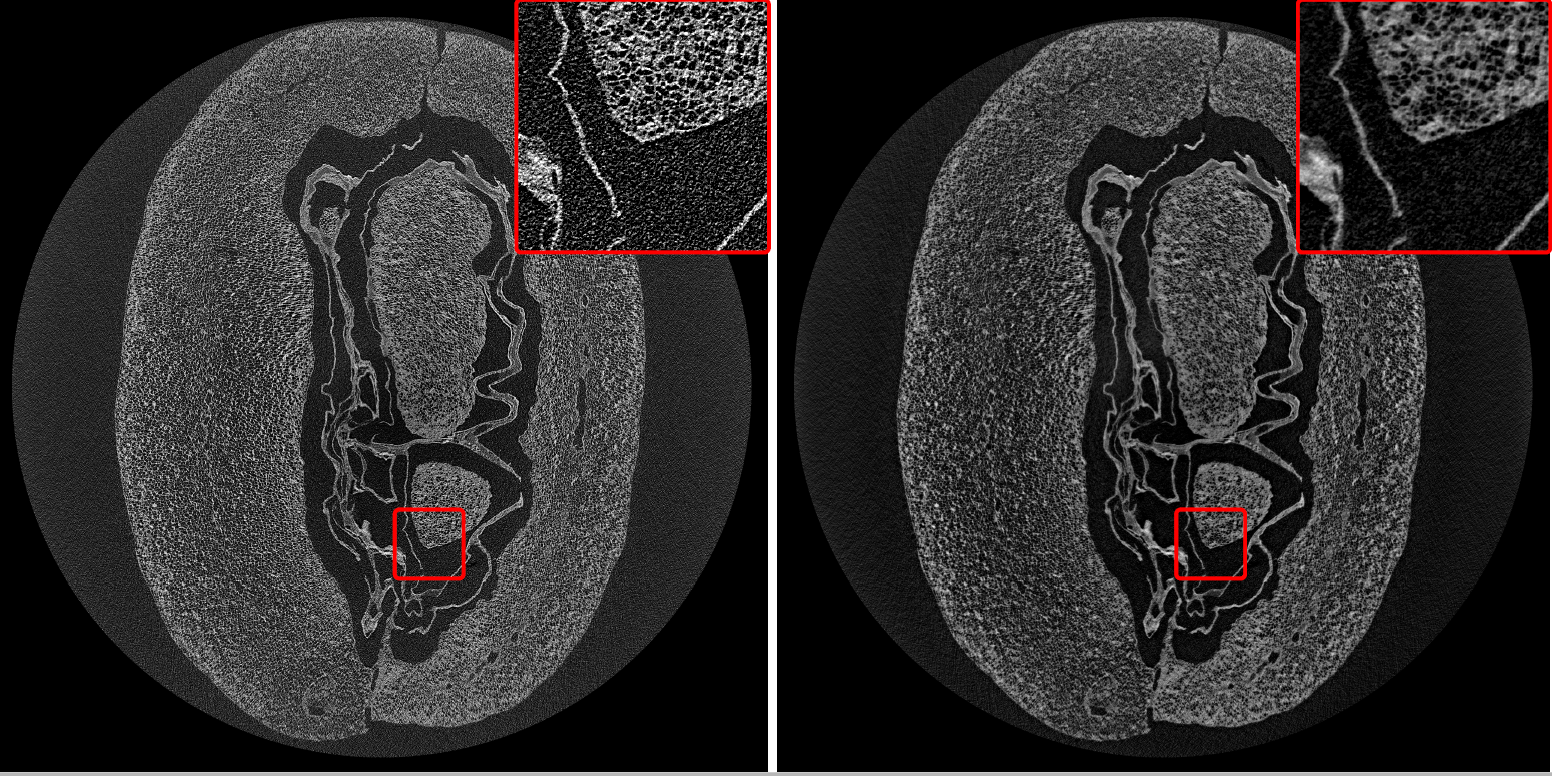
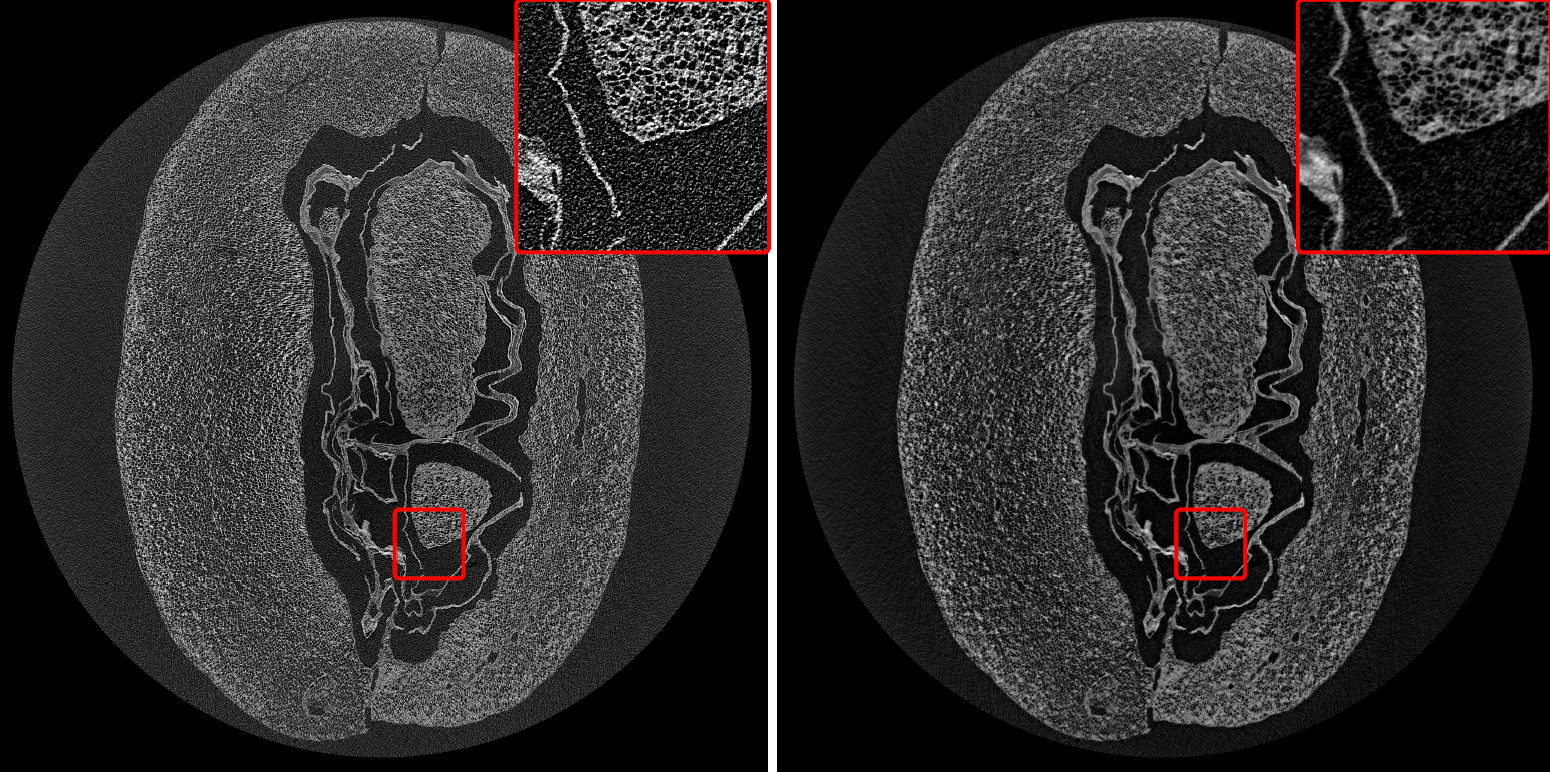
Docs: a fresher look for the home page, papers, demos and footer
- Home: icons, an orange top line and a hover lift on the "Why TIGRE"
  cards; "Get started" becomes three larger cards (Install, Learn,
  Reference); more room and a larger tagline in the hero.
- Code tabs (home, install): a quiet grey frame instead of the orange
  one; orange stays on the active tab.
- Coffee-bean image: trim the light lines on its bottom and right edges,
  which showed in dark mode.
- Papers: dark titles that turn orange on hover, venue in grey.
- Demo pages: a play icon on the Open in Colab button.
- Footer: links to GitHub, Cite TIGRE, Getting help, Contributing and
  the licence.

Claude-Session: https://claude.ai/code/session_01L6n1VKzc1MHHkq9EuERTD3

diff --git a/docs/_static/custom.css b/docs/_static/custom.css
@@ -126,3 +126,107 @@ html[data-theme="dark"] {
 .sphx-glr-download-link-note {
   display: none;
 }
+
+/* ---- Landing page, refreshed look (Nov 2026) ---- */
+
+/* Hero: a little more room, a larger tagline. */
+.tigre-hero {
+  padding: 1.5rem 0 2.5rem;
+}
+.tigre-tagline {
+  font-size: 1.4rem;
+  line-height: 1.45;
+}
+.tigre-hero figure img {
+  border-radius: 0.6rem;
+}
+.tigre-hero figcaption {
+  font-size: 0.85rem;
+}
+
+/* Feature and get-started cards: an orange line on top, an icon, a lift on hover. */
+.tigre-features .sd-card {
+  border: 1px solid var(--pst-color-border);
+  border-top: 3px solid var(--pst-color-accent);
+  border-radius: 0.5rem;
+  box-shadow: none;
+  transition: transform 0.15s ease, box-shadow 0.15s ease;
+}
+.tigre-features .sd-card:hover {
+  transform: translateY(-2px);
+  box-shadow: 0 0.4rem 1.2rem rgba(0, 0, 0, 0.12);
+}
+html[data-theme="dark"] .tigre-features .sd-card:hover {
+  box-shadow: 0 0.4rem 1.2rem rgba(0, 0, 0, 0.5);
+}
+.tigre-features .sd-card-title {
+  display: flex;
+  align-items: center;
+  gap: 0.6rem;
+  font-size: 1.05rem;
+}
+.tigre-features .tigre-icon {
+  color: var(--pst-color-accent);
+  flex-shrink: 0;
+}
+.tigre-features .sd-card-text,
+.tigre-features .sd-card-body p {
+  color: var(--pst-color-text-muted);
+}
+.tigre-start .sd-card-body {
+  padding: 1.25rem 1.25rem 1rem;
+}
+@media (prefers-reduced-motion: reduce) {
+  .tigre-features .sd-card { transition: none; }
+  .tigre-features .sd-card:hover { transform: none; }
+}
+
+/* Code tabs (home and install pages): a quiet frame; orange only on the active tab. */
+.bd-content .sd-tab-set > .sd-tab-content {
+  box-shadow: none;
+  border: 1px solid var(--pst-color-border);
+  border-radius: 0 0.4rem 0.4rem 0.4rem;
+  padding: 0.25rem;
+}
+.bd-content .sd-tab-set > input:checked + label {
+  border-color: var(--pst-color-accent);
+  color: var(--pst-color-text-base);
+}
+.bd-content .sd-tab-set > .sd-tab-content div.highlight,
+.bd-content .sd-tab-set > .sd-tab-content pre {
+  margin: 0;
+  border: none;
+}
+
+/* Papers: dark titles that turn orange on hover, venue and year in grey. */
+section#papers-using-tigre li strong a {
+  color: var(--pst-color-text-base);
+  text-decoration: none;
+}
+section#papers-using-tigre li strong a:hover {
+  color: var(--pst-color-link-hover);
+  text-decoration: underline;
+}
+section#papers-using-tigre li em {
+  color: var(--pst-color-text-muted);
+}
+section#papers-using-tigre li {
+  margin-bottom: 0.35rem;
+}
+
+/* Footer links. */
+.tigre-footer-links {
+  display: flex;
+  flex-wrap: wrap;
+  justify-content: center;
+  gap: 0.25rem 1.25rem;
+  font-size: 0.9rem;
+}
+.tigre-footer-links a {
+  color: var(--pst-color-text-muted);
+  text-decoration: none;
+}
+.tigre-footer-links a:hover {
+  color: var(--pst-color-link-hover);
+  text-decoration: underline;
+}

diff --git a/docs/_templates/footer-links.html b/docs/_templates/footer-links.html
@@ -1,0 +1,7 @@
+<nav class="tigre-footer-links" aria-label="Footer">
+  <a href="https://github.com/CERN/TIGRE">GitHub</a>
+  <a href="{{ pathto('citing') }}">Cite TIGRE</a>
+  <a href="{{ pathto('help') }}">Getting help</a>
+  <a href="{{ pathto('contributing') }}">Contributing</a>
+  <a href="https://github.com/CERN/TIGRE/blob/master/LICENSE.txt">BSD licence</a>
+</nav>

diff --git a/docs/conf.py b/docs/conf.py
@@ -231,6 +231,7 @@ html_theme_options = {
     "show_toc_level": 2,
     "use_edit_page_button": True,
     "footer_start": ["copyright"],
+    "footer_center": ["footer-links"],
     "footer_end": ["sphinx-version"],
     "icon_links": [
         {
@@ -279,7 +280,7 @@ def _colab_button(app, docname, source):
         f"\n.. button-link:: {url}\n"
         "   :color: secondary\n"
         "   :outline:\n\n"
-        "   Open in Colab\n\n"
+        "   :octicon:`play` Open in Colab\n\n"
         "Runs in your browser on Google Colab: choose a GPU runtime "
         "(*Runtime > Change runtime type*), then run the cells in order.\n"
     )

diff --git a/docs/index.md b/docs/index.md
@@ -126,43 +126,44 @@ match your system. The [demos](demos/index.rst) go through every step.
 
 ::::{grid} 1 2 2 3
 :gutter: 3
+:class-container: tigre-features
 
-:::{grid-item-card} Any geometry
+:::{grid-item-card} {octicon}`sync;1.4em;tigre-icon` Any geometry
 :link: user-guide/geometry
 :link-type: doc
 Cone beam, parallel beam, helical, tomosynthesis, C-arm and curved
 detectors. Geometric parameters are defined per projection, not per scan.
 :::
 
-:::{grid-item-card} State-of-the-art speed
+:::{grid-item-card} {octicon}`zap;1.4em;tigre-icon` State-of-the-art speed
 :link: technical-notes/speed-3.3.1/index
 :link-type: doc
 Optimised CUDA projectors and backprojectors, among the fastest available,
 that split problems larger than GPU memory across one or several GPUs.
 :::
 
-:::{grid-item-card} Many algorithms
+:::{grid-item-card} {octicon}`stack;1.4em;tigre-icon` Many algorithms
 :link: user-guide/algorithms
 :link-type: doc
 FDK/FBP, the SART family, Krylov methods (CGLS, LSQR, LSMR, GMRES, hybrid),
 MLEM, total-variation and prior-image methods, and more.
 :::
 
-:::{grid-item-card} MATLAB and Python
+:::{grid-item-card} {octicon}`code;1.4em;tigre-icon` MATLAB and Python
 :link: user-guide/interoperability
 :link-type: doc
 The same toolbox and the same demos in both languages, and PyTorch
 operators with gradients for learned reconstruction.
 :::
 
-:::{grid-item-card} Real data
+:::{grid-item-card} {octicon}`database;1.4em;tigre-icon` Real data
 :link: user-guide/loading-data
 :link-type: doc
 Loaders for Nikon, Bruker, YXLON, Diondo and Varian scanners, DXchange
 synchrotron data and DICOM (MATLAB).
 :::
 
-:::{grid-item-card} Widely used
+:::{grid-item-card} {octicon}`people;1.4em;tigre-icon` Widely used
 :link: papers
 :link-type: doc
 Used in {{ papers_count }} published papers, in medicine, synchrotron and
@@ -221,37 +222,28 @@ Neutron tomography
 
 ## Get started
 
-::::{grid} 1 2 3 5
+::::{grid} 1 1 3 3
 :gutter: 3
+:class-container: tigre-features tigre-start
 
-:::{grid-item-card} Install
+:::{grid-item-card} {octicon}`download;1.4em;tigre-icon` Install
 :link: install/index
 :link-type: doc
-MATLAB and Python installation.
+Prebuilt wheels for Python on Linux, or build TIGRE for MATLAB and Python
+from source.
 :::
 
-:::{grid-item-card} User guide
+:::{grid-item-card} {octicon}`mortar-board;1.4em;tigre-icon` Learn
 :link: user-guide/index
 :link-type: doc
-Geometry, projectors, algorithms and more.
+The user guide: geometry, algorithms, real data, and what to check when a
+reconstruction looks wrong.
 :::
 
-:::{grid-item-card} Demos
-:link: demos/index
-:link-type: doc
-Worked examples in Python and MATLAB.
-:::
-
-:::{grid-item-card} API reference
+:::{grid-item-card} {octicon}`book;1.4em;tigre-icon` Reference
 :link: api/index
 :link-type: doc
-Every function and option, in both languages.
-:::
-
-:::{grid-item-card} Cite TIGRE
-:link: citing
-:link-type: doc
-How to cite TIGRE in your work.
+Every function and option, in Python and MATLAB.
 :::
 ::::
 
